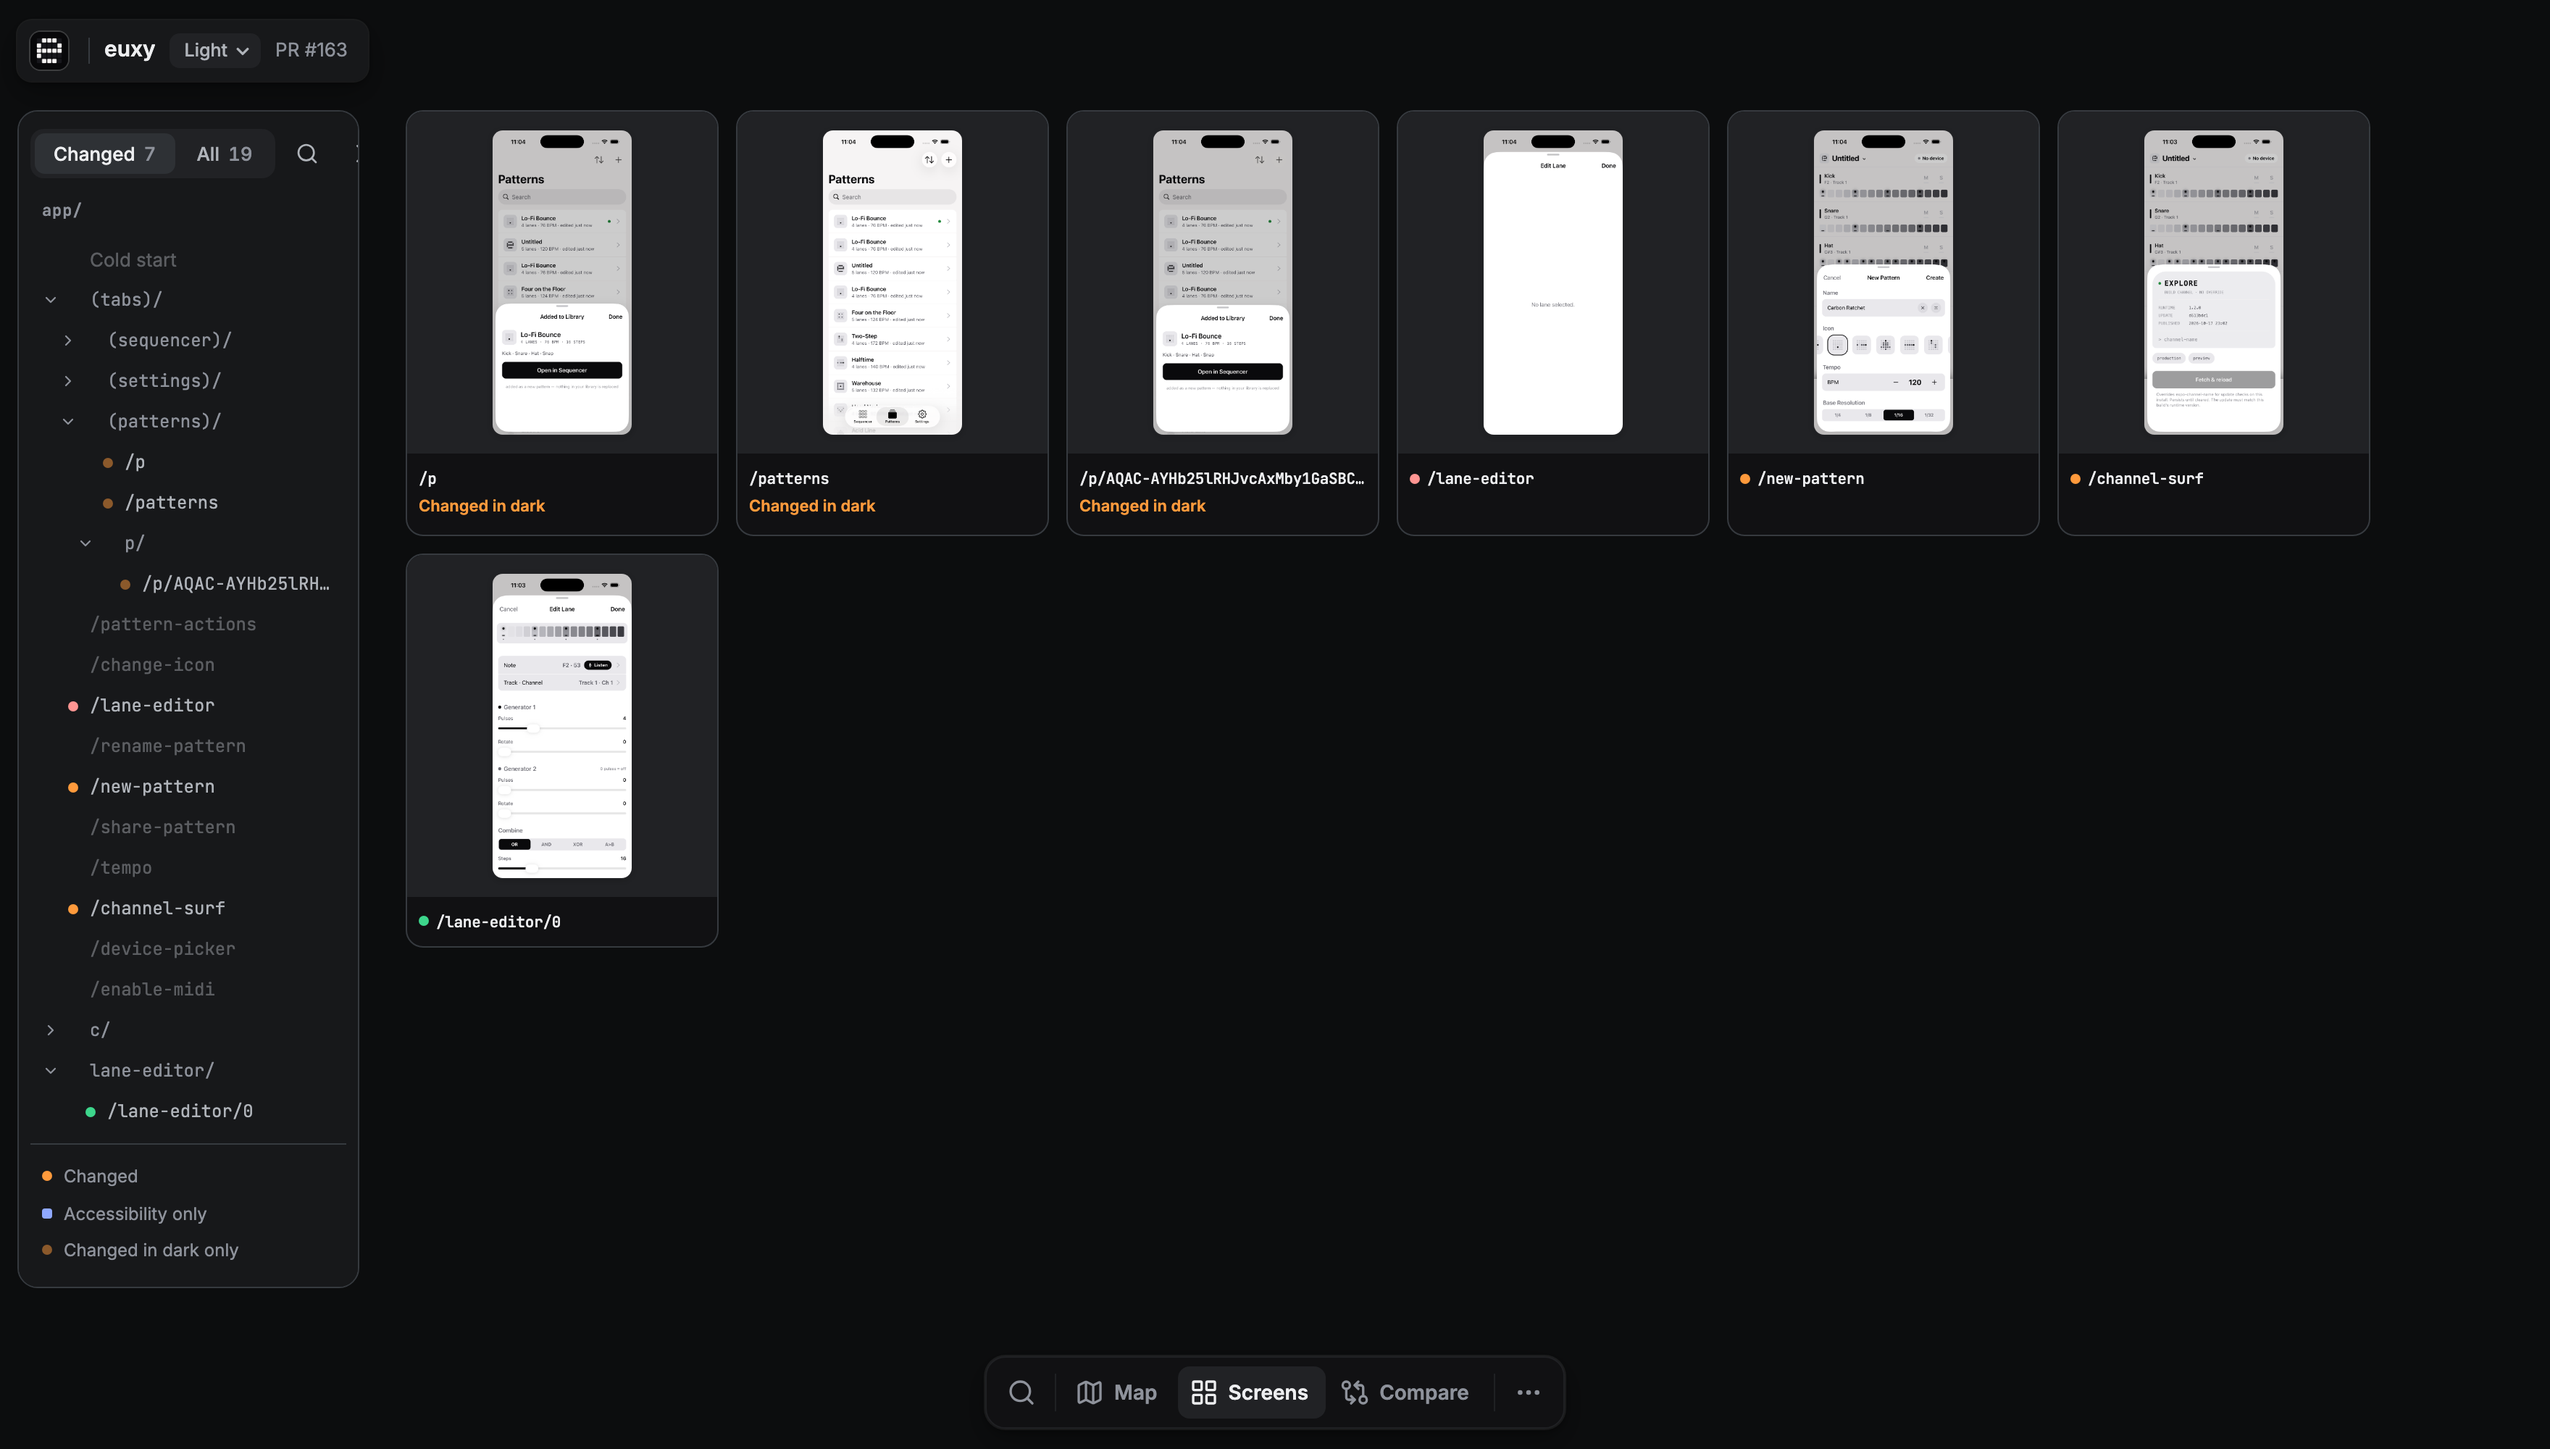
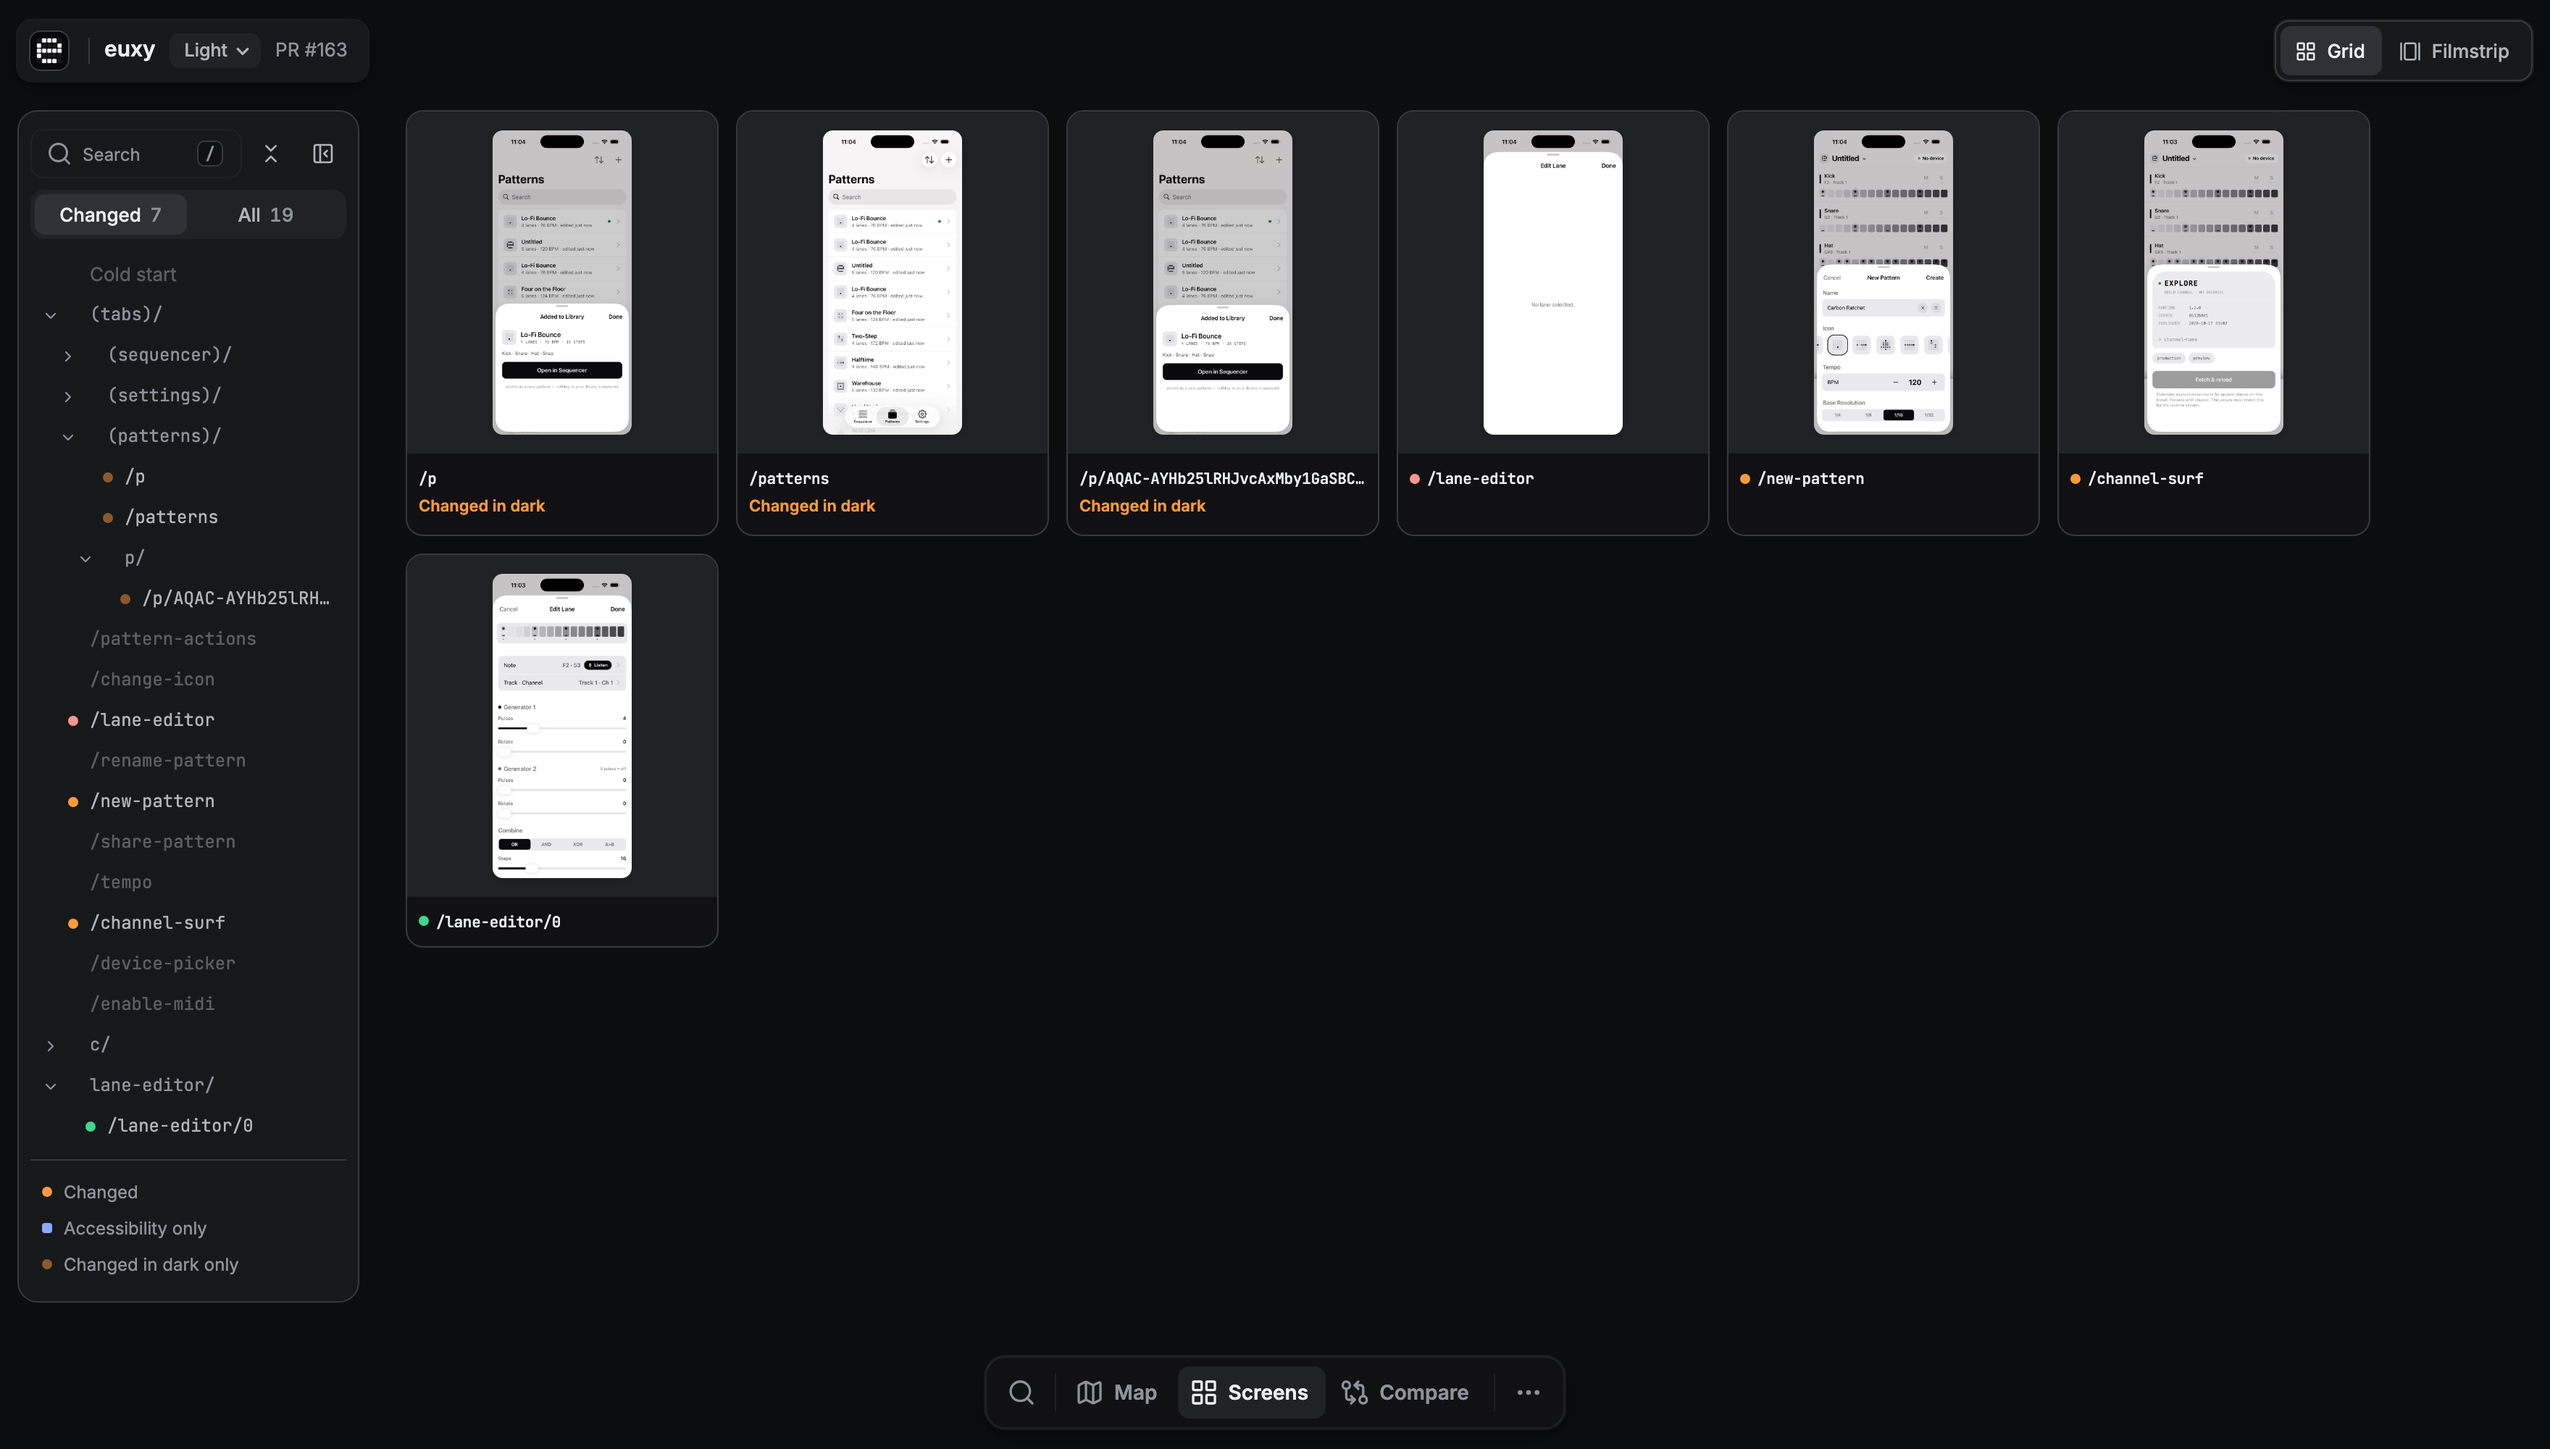
README: the Screens picture with the Grid / Filmstrip switch, the filmstrip in its caption, and a capture job's timings under How it works

Changed region(s): [[0.0, 0.403, 0.125, 0.899], [0.0, 0.093, 0.0938, 0.372], [0.875, 0.0, 1.0, 0.062]]

diff --git a/README.md b/README.md
@@ -22,10 +22,10 @@ Explore maps your app: a screenshot of every screen, connected by the taps betwe
 <a href="docs/screenshots/readme-screens-light.png">
 <picture>
   <source media="(prefers-color-scheme: dark)" srcset="docs/screenshots/readme-screens-dark.png">
-  <img width="100%" alt="The Screens view of a euxy review showing Changed 7 of All 19: the app/ route tree on the left, and beside it a grid of the changed screens in the same order, each with its route below the screenshot: a red dot for the removed /lane-editor, orange for the modified /new-pattern and /channel-surf, green for the new /lane-editor/0, and Changed in dark under /p and /patterns" src="docs/screenshots/readme-screens-light.png">
+  <img width="100%" alt="The Screens view of a euxy review showing Changed 7 of All 19: a Search field and the app/ route tree on the left, and beside it a grid of the changed screens in the same order, each with its route below the screenshot: a red dot for the removed /lane-editor, orange for the modified /new-pattern and /channel-surf, green for the new /lane-editor/0, and Changed in dark under /p, /patterns and a /p/ link; at the top right, a switch between Grid and Filmstrip" src="docs/screenshots/readme-screens-light.png">
 </picture>
 </a>
-<strong>Screens</strong>: every capture in one grid, or only the changed ones, beside the route tree, with a dot for what changed.
+<strong>Screens</strong>: every capture, or only the changed ones, in a grid or one at a time in a filmstrip, beside the route tree, with a dot for what changed.
 </td>
 <td width="50%" valign="top">
 <a href="docs/screenshots/readme-pr-comment-light.png">
@@ -579,6 +579,7 @@ sequenceDiagram
 - The review workflow runs on open, non-draft PRs from the repository whose author has write access. Bots such as Devin go under `ci.trustedAuthors` in `.expo-explore/config.yaml`.
 - A screen with a source change is **Modified** if its captures differ.
 - If EAS fails to start a session, Explore starts a new one, up to five times within 30 minutes. On your machine, a local simulator can stand in for EAS Simulator.
+- Each capture job's summary shows where its time went, phase by phase, and its diagnostics artifact keeps the timings (`timings.jsonl`). When a review waits for the baseline of its base commit, its log and the PR comment name the step that baseline job is in.
 
 The same review runs for any two commits without a PR ([`explore-compare.yml`](#compare-any-two-commits), linking the report from the run summary) and on your machine (`capture`, [above](#quick-start)). The workflows' logic lives in `expo-explore ci:*` commands, so a fix reaches CI with the `@expo/explore` version the workflows pin.
 
